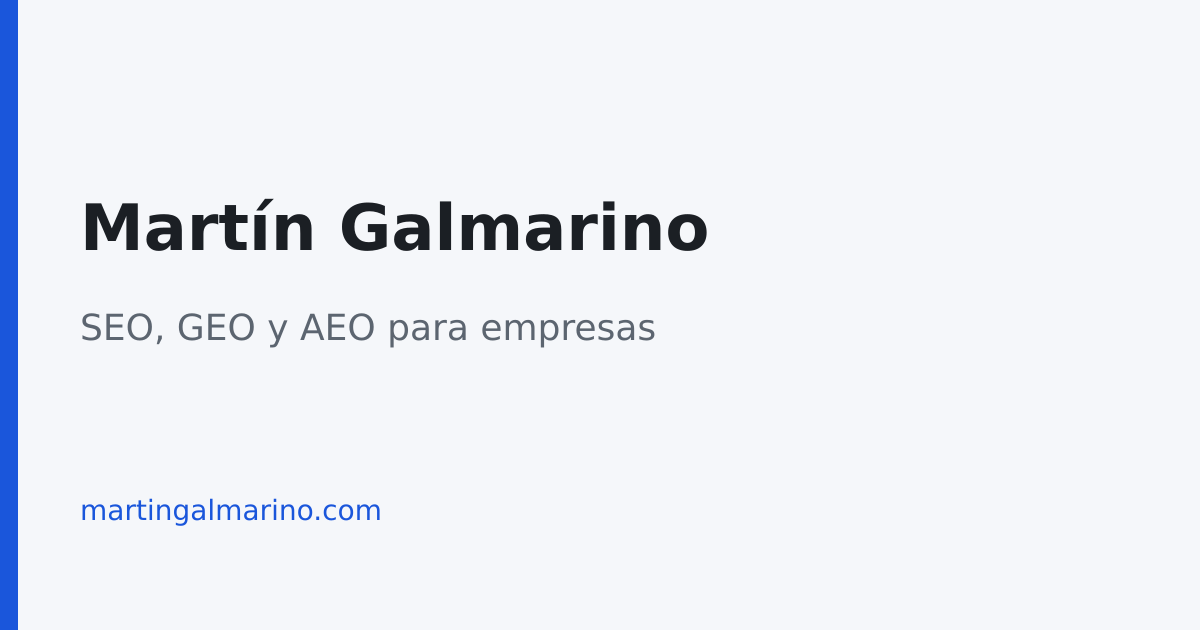
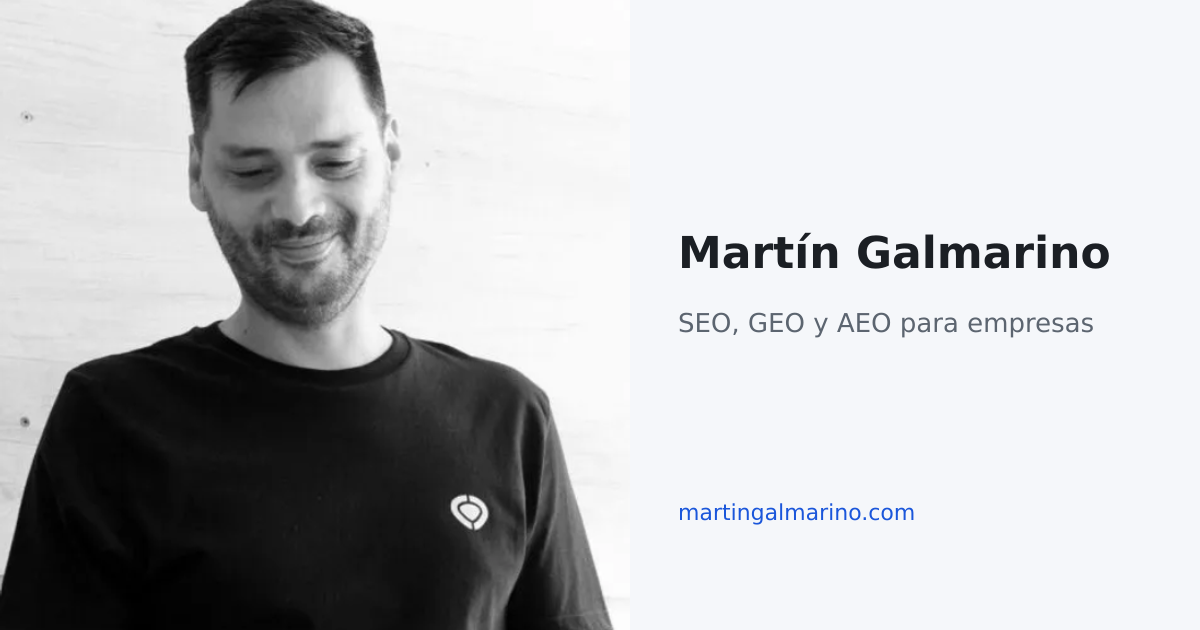
Pongo las fotos reales de Martín en el hero, la bio y la OG.

diff --git a/src/styles/global.css b/src/styles/global.css
@@ -993,7 +993,25 @@ p {
 }
 
 .home .portrait {
-  object-position: center top;
+  object-position: center center;
+}
+
+.portrait-frame.author-photo {
+  width: 8rem;
+  height: 10rem;
+}
+
+.signature {
+  display: flex;
+  align-items: center;
+  gap: 0.9rem;
+}
+
+.signature .portrait-frame {
+  width: 3.5rem;
+  height: 3.5rem;
+  border-radius: 999px;
+  flex: none;
 }
 
 .facts-wrap {

diff --git a/src/lib/schema.ts b/src/lib/schema.ts
@@ -58,6 +58,7 @@ export function pageGraph(options: {
         name: site.author.name,
         jobTitle: site.author.jobTitle,
         url: absoluteUrl(site.author.path),
+        image: absoluteUrl('/martin-galmarino.jpg'),
         sameAs: [site.author.linkedin],
       },
       {

diff --git a/README.md b/README.md
@@ -39,13 +39,9 @@ No hay variables de entorno obligatorias en esta etapa. El formulario y Analytic
 
 ## Foto
 
-La foto de la home es un placeholder. Reemplazá el archivo, con el mismo nombre:
+El retrato del hero es `src/assets/martin-galmarino.png` (alt “Martín Galmarino” en `src/pages/index.astro`). La de perfil, en escala de grises, es `src/assets/martin-galmarino-perfil.jpg` (firma de las notas y `/martin-galmarino/`).
 
-`src/assets/martin-galmarino.png`
-
-El texto alternativo está en `src/pages/index.astro` (`alt` del retrato). Cuando llegue la foto real, cambialo por una descripción de la foto.
-
-La imagen para redes está en `public/og.png`.
+La imagen para redes está en `public/og.png`. El JSON-LD de Person usa `public/martin-galmarino.jpg`.
 
 ## Publicar una nota
 
